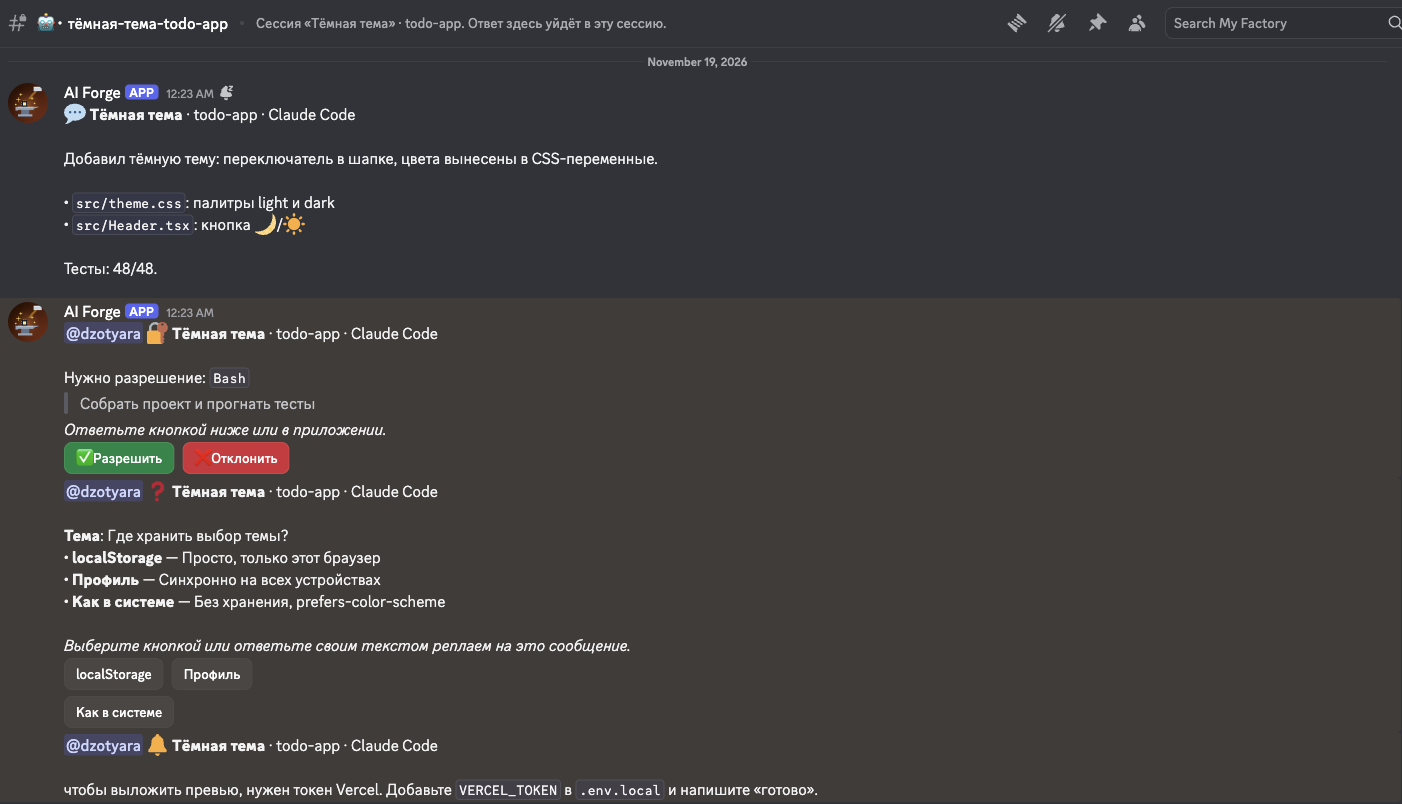
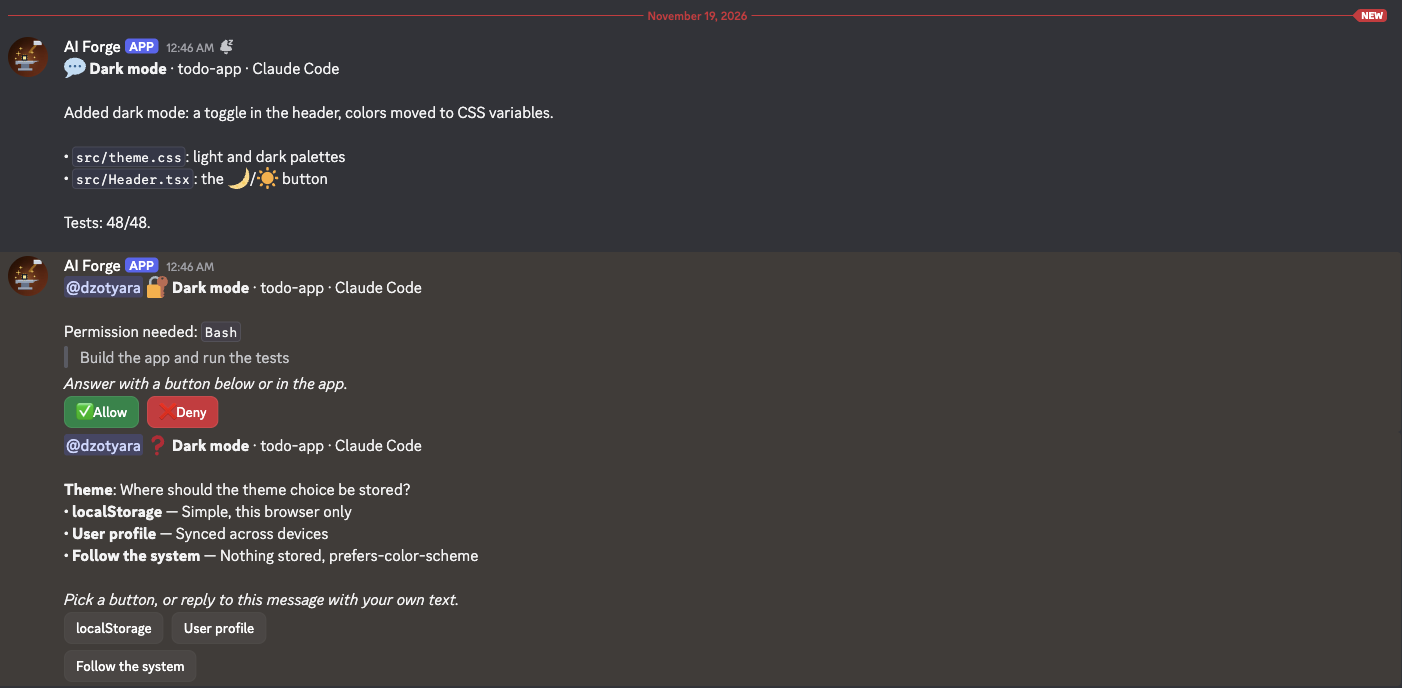
Screenshots in English: Discord, Telegram, settings panel; repo link in the status tooltip

diff --git a/README.ru.md b/README.ru.md
@@ -57,8 +57,10 @@ AI Forge - плагин для Claude Code. Каждая сессия получ
 |---|---|
 | ![Ответ из Discord](docs/discord-answered.png) | ![Запрос на запуск фоновой сессии](docs/discord-spawn.png) |
 | Разрешение и вопрос, отвеченные из Discord; подтверждение видите только вы | Босс спрашивает перед запуском фоновой сессии |
-| ![Статус бота](docs/discord-bot-status.png) | ![Панель настроек](docs/settings-panel.png) |
-| Бот показывает, сколько сессий в работе | Локальная панель настроек |
+| ![Статус в вашем профиле Discord](docs/discord-rich-presence.png) | ![Панель настроек](docs/settings-panel.png) |
+| Профиль Discord показывает, сколько сессий в работе | Локальная панель настроек с переключателем English / Русский |
+| ![Тема сессии в Telegram](docs/telegram-session.png) | ![Ответ из Telegram](docs/telegram-answered.png) |
+| Та же сессия в теме Telegram | Разрешено и отвечено из Telegram, потом ответ текстом |
 
 Скриншоты сняты на английском интерфейсе. Русский включается в панели настроек.
 

diff --git a/README.md b/README.md
@@ -57,8 +57,10 @@ Use Discord, Telegram, or both. With both, a request shows up in both places and
 |---|---|
 | ![Approved in Discord](docs/discord-answered.png) | ![Background session request in the main channel](docs/discord-spawn.png) |
 | A permission and a question answered from Discord; only you see the confirmation | The Boss asks before starting a background session |
-| ![Bot profile with its status](docs/discord-bot-status.png) | ![Settings panel](docs/settings-panel.png) |
-| The bot shows how many sessions are working | The local settings panel |
+| ![Your Discord profile while sessions work](docs/discord-rich-presence.png) | ![Settings panel](docs/settings-panel.png) |
+| Your Discord profile shows how many sessions are working | The local settings panel, with an English / Русский switch |
+| ![A session topic in Telegram](docs/telegram-session.png) | ![Answered from Telegram](docs/telegram-answered.png) |
+| The same session in a Telegram topic | Allowed and answered from Telegram, then a reply |
 
 ## Install
 
